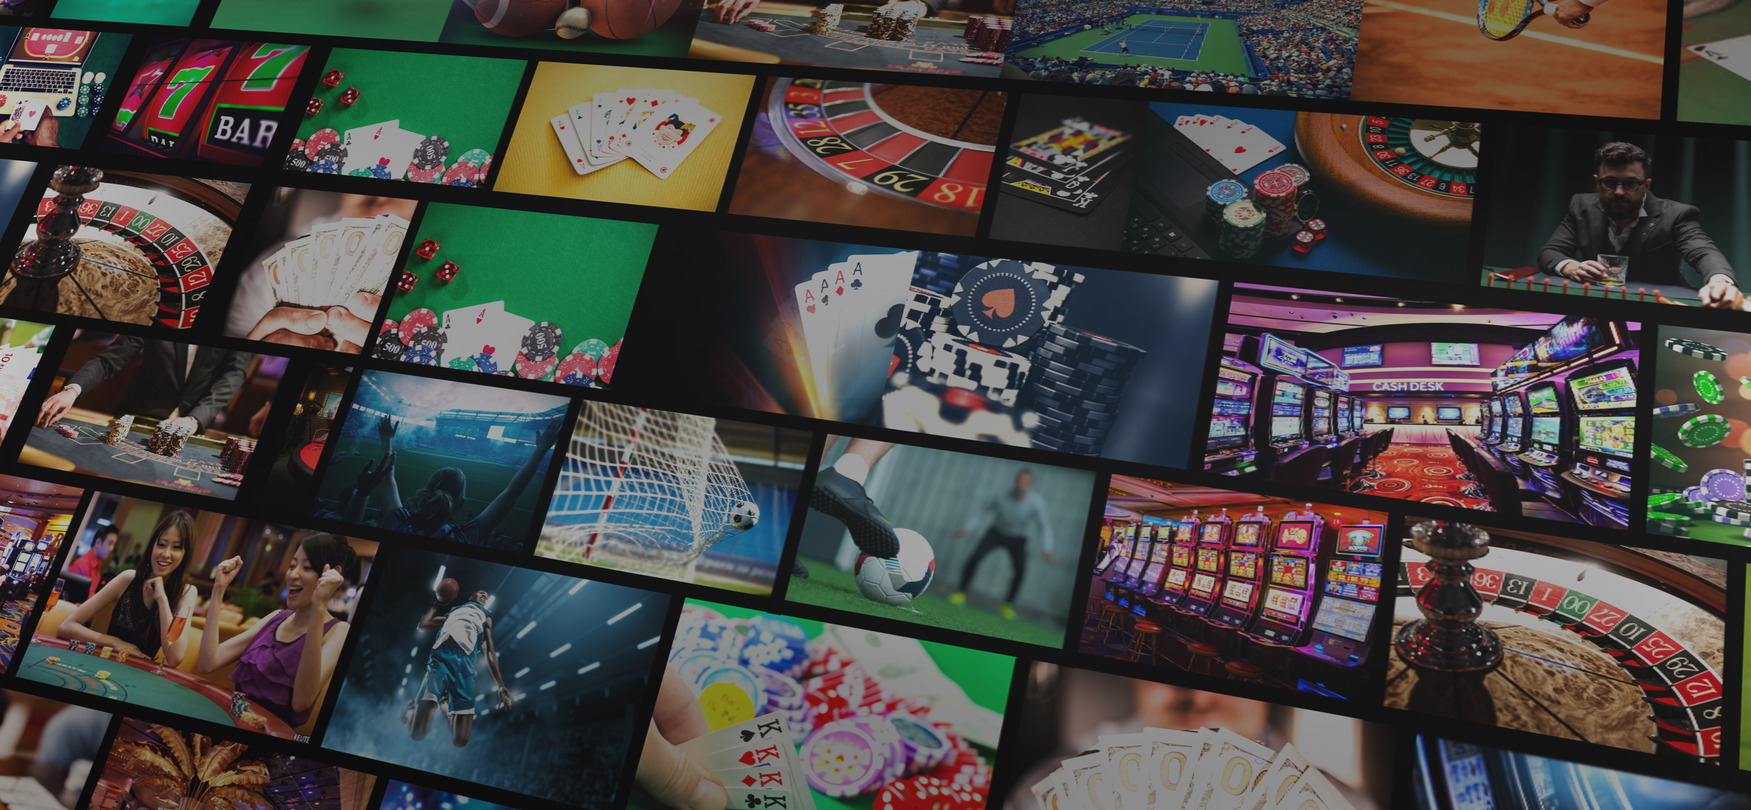
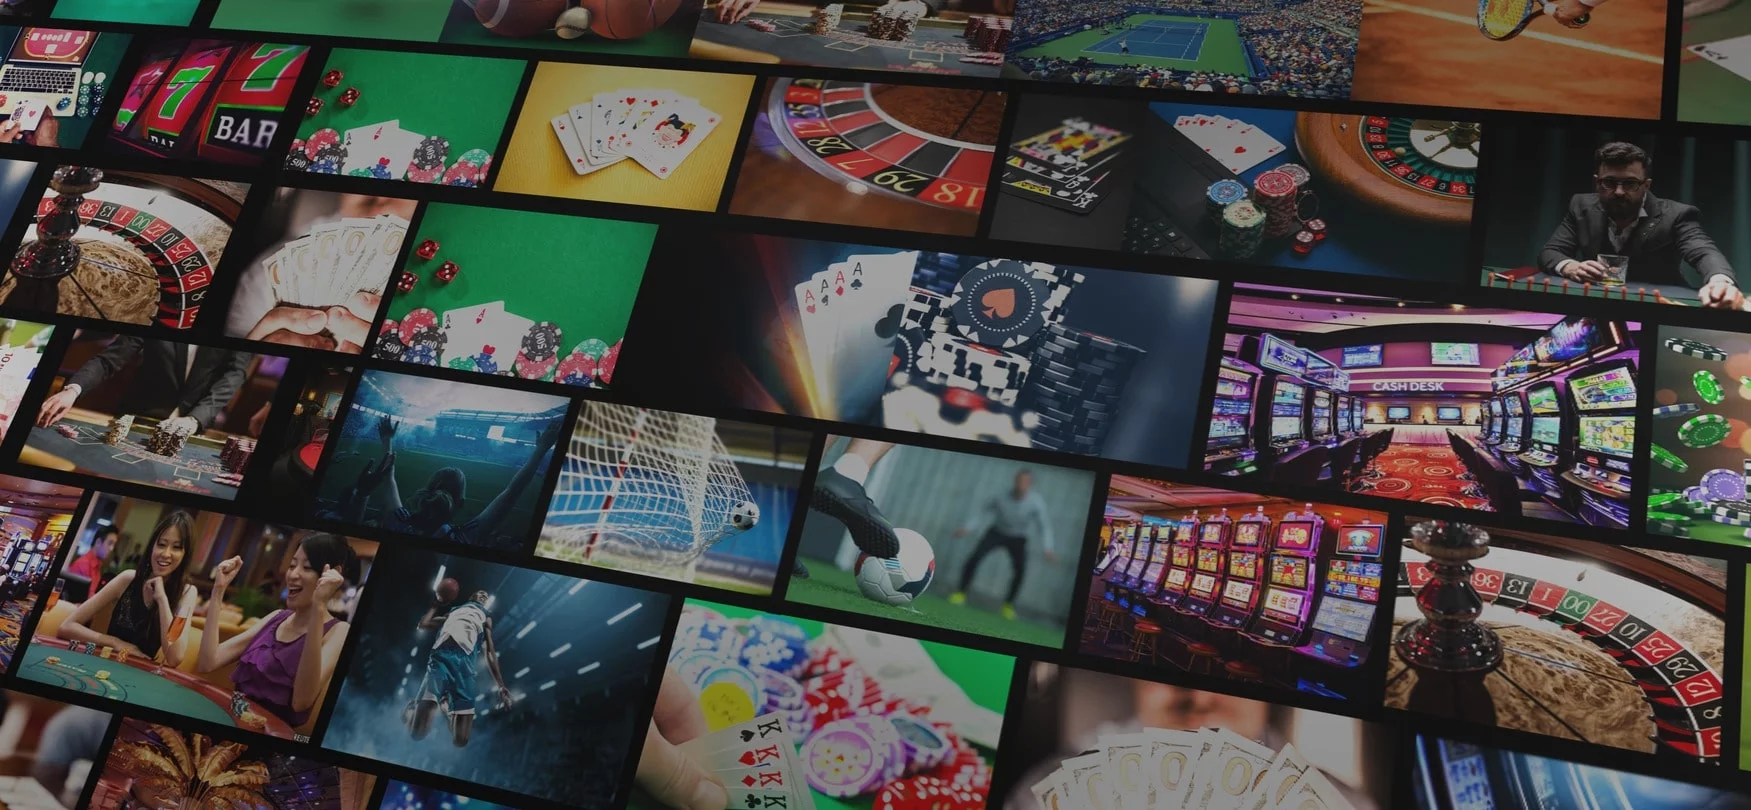
features.css, header.css, images
Change the format of pictures

diff --git a/src/css/header.css b/src/css/header.css
@@ -16,6 +16,30 @@
 	background-size: cover;
 	border: .1px solid transparent;
 }
+@media  only screen and (-webkit-min-device-pixel-ratio: 1.5),
+only screen and (min--moz-device-pixel-ratio: 1.5),
+only screen and (-o-min-device-pixel-ratio: 3/2),
+only screen and (min-resolution: 1.5dppx),
+only screen and (min-resolution: 144dpi) {
+	.header {
+		background: linear-gradient(rgba(0,0,0,0.5), rgba(0,0,0,0.5)), url(../images/header-image@2x.webp) no-repeat center center #171b1d;
+	background-size: cover;
+	}
+}
+.no-webp .header {
+	background: linear-gradient(rgba(0,0,0,0.5), rgba(0,0,0,0.5)), url(../images/header-image@1x.jpg) no-repeat center center #171b1d;
+	background-size: cover;
+}
+@media  only screen and (-webkit-min-device-pixel-ratio: 1.5),
+only screen and (min--moz-device-pixel-ratio: 1.5),
+only screen and (-o-min-device-pixel-ratio: 3/2),
+only screen and (min-resolution: 1.5dppx),
+only screen and (min-resolution: 144dpi) {
+	.header {
+		background: linear-gradient(rgba(0,0,0,0.5), rgba(0,0,0,0.5)), url(../images/header-image@2x.jpg) no-repeat center center #171b1d;
+	background-size: cover;
+	}
+}
 .header__content {
 	width: 750px;
 	height: 250px;
@@ -201,6 +225,8 @@ input[type="submit"]:hover {
 @media (max-width: 576px) {
 	.header {
 		min-height: 100vh;
+		background: linear-gradient(rgba(0,0,0,0.5), rgba(0,0,0,0.5)), url(../images/header-image-mini.jpg) no-repeat center center #171b1d;
+		background-size: cover;
 	}
 	.header__content {
 		width: 90%;

diff --git a/src/css/features.css b/src/css/features.css
@@ -18,10 +18,14 @@
 	max-width: 1440px;
 	min-height: 810px;
 	height: auto;
-	background: url(../images/features.png) no-repeat center center #171b1d;
+	background: url(../images/features.webp) no-repeat center center #171b1d;
 	background-size: 288px 610px;
 	padding: 100px 0;
 	box-sizing: border-box
+}
+.no-webp .features__wrap {
+	background: url(../images/features.png) no-repeat center center #171b1d;
+	background-size: 288px 610px;
 }
 .features__content {
 	width: 100%;
